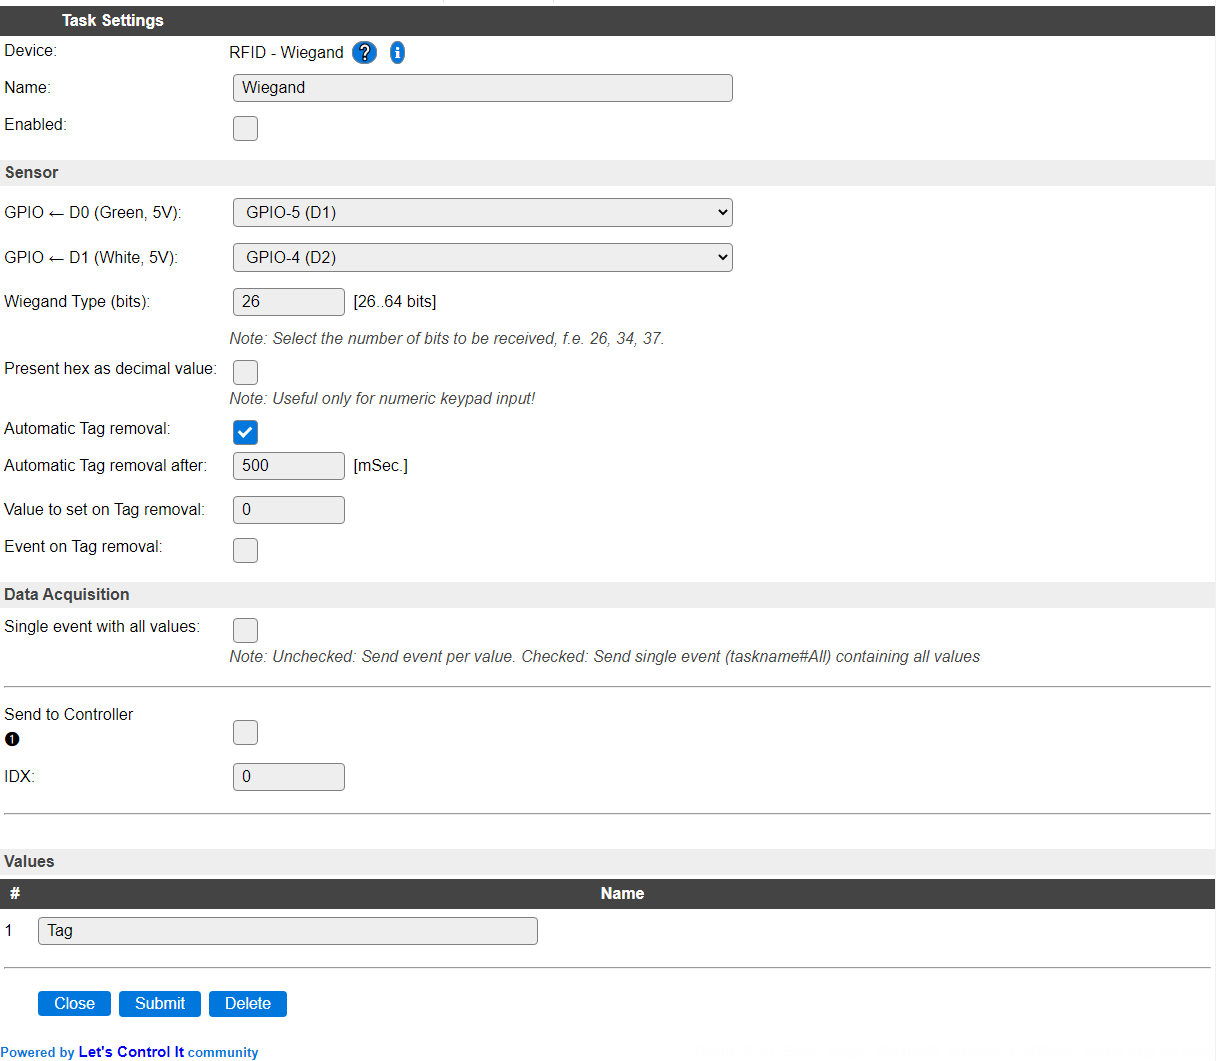
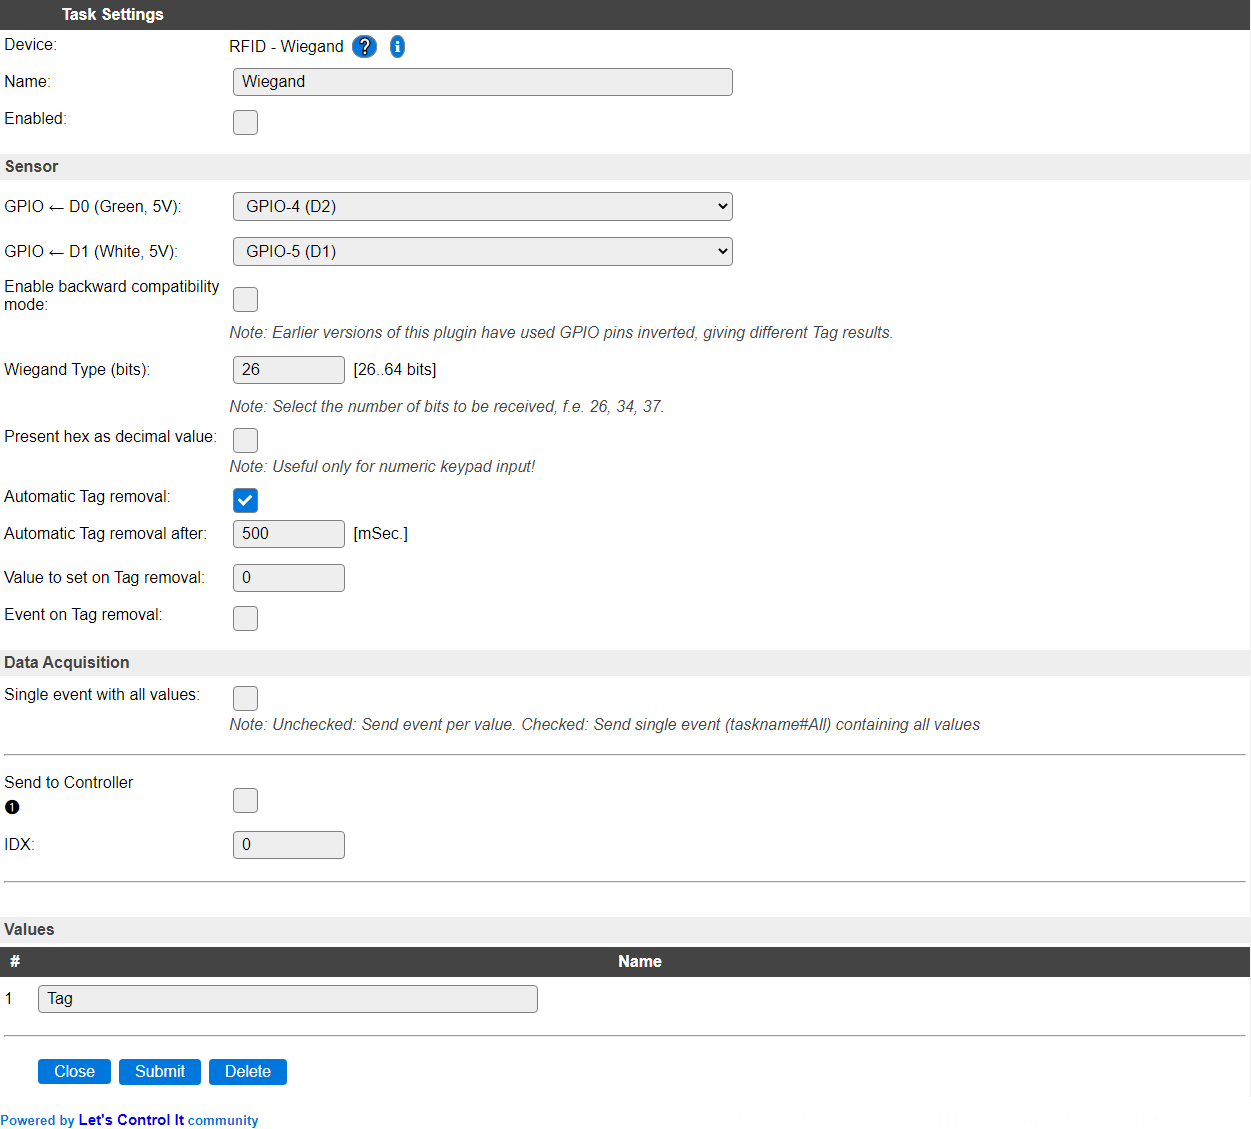
[P008] Update documentation

diff --git a/docs/source/Plugin/P008.rst b/docs/source/Plugin/P008.rst
@@ -32,6 +32,8 @@ The value is placed in the Tag variable (this name can be changed).
 
 .. image:: P008_DeviceConfiguration.png
 
+* **Enable backward compatibility mode** When enabled, uses the GPIO pins in 'reversed' mode, to be compatible with previous versions of this plugin (by default it will be enabled when updating an existing device/task), to ensure the same Tag results are given as on previous ESPEasy releases. When unchecked (default when newly added), the scan results will be the same as received with other Wiegand protocol RFID & Keypad readers.
+
 * **Wiegand Type (bits)** Select the number of bits to expect from the device. Often used values are 26 and 34, resulting in 24 and 32 bit received data. Selection allows up to 64 bits to be received, giving a 62 bit value, as 2 bits are used for parity information during transmission, and discarded from the received value. When set too high, no data will be recognized, and automatic resets will appear in the log after 5 seconds (``Info   : RFID : reset bits: nn``).
 
 * **Present hex as decimal value** (Disabled by default) For decimal numeric keypads this option is provided to transform the hex value into a decimal representation, so that when entering value 1234# (# is the confirmation key here), not the result 4660 (0x1234) is made available, but actually 1234. This for easier processing/validating of the entered value. Any input of A-F is replaced by 0 when this option is enabled! It should not be enabled when using a RFID reader, as the Tag ID won't be correct!
@@ -64,6 +66,8 @@ Change log
 
 .. versionchanged:: 2.0
   ...
+
+  |improved| 2021-11-20 Correct reverted GPIO/interrupt handlers with optional backward compatibility mode.
 
   |added| 2021-08-23 Extended selection of received bits to 26..64 bit range.
 
